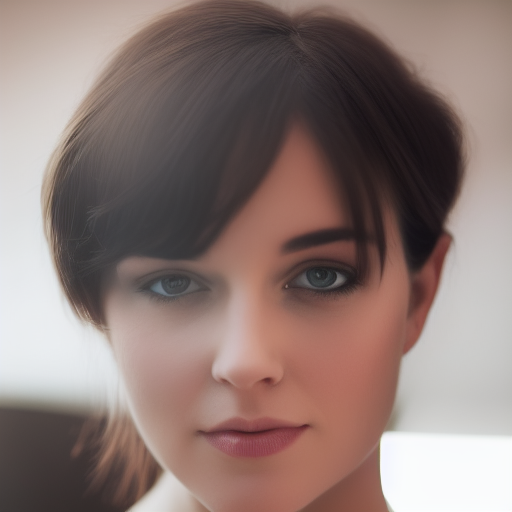
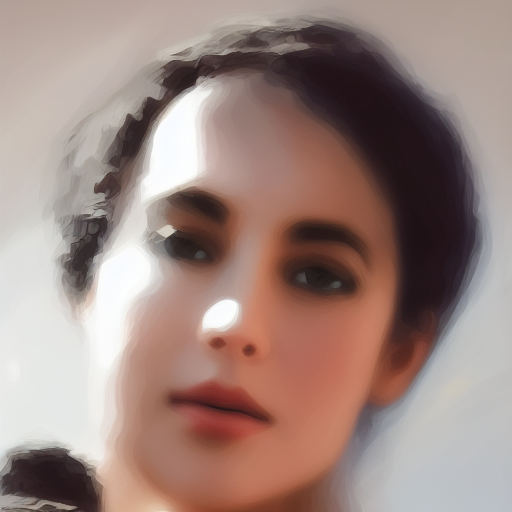
高さ方向にオフセットかました。割とよさげ

diff --git a/HumanGalgeeSystem/Development/HumanGalgeeSystem/ToDesktop/main_optimize.py b/HumanGalgeeSystem/Development/HumanGalgeeSystem/ToDesktop/main_optimize.py
@@ -20,7 +20,7 @@ from utils import CvFpsCalc
 def conv_face2girl(api,prompt,faceimage):
     # 画像を生成する
     # faceimage = Image.open("facetrim.png")
-    girlimage = api.img2img(images = [faceimage], prompt=prompt, seed=5555, cfg_scale=6.5, denoising_strength=0.6)
+    girlimage = api.img2img(images = [faceimage], prompt=prompt, seed=5555, cfg_scale=6.5, denoising_strength=0.5)
     girlimage.image.save("girlimage.png")
         
 
@@ -143,9 +143,11 @@ def culculate_face_pos_and_size(image,detection):
 def overlay_illust(bg,posX,posY,sizeH):
     try :
         olimage = cv.imread("girlimage.png",cv.IMREAD_UNCHANGED) 
-        resize_ol_image = cv.resize(olimage, dsize=None, fx=sizeH * 0.004, fy=sizeH * 0.004)
+        resize_ol_image = cv.resize(olimage, dsize=None, fx=sizeH * 0.0035, fy=sizeH * 0.0035)
         resize_ol_image_height = resize_ol_image.shape[0]
         resize_ol_image_width = resize_ol_image.shape[1]
+        
+        posY = posY -50 #高さ方向のオフセット
 
         #重ね合わせ画像のアルファチャンネルだけ抜き出す(0~255の値が入っている)
         #alpha = resize_ol_image[:,:,3]
@@ -164,7 +166,7 @@ def overlay_illust(bg,posX,posY,sizeH):
         print(ex)
         return bg
 
-# 顔の部分を切り抜き
+# 顔の部分を切り抜き()
 def trim_face(posX,posY,sizeW,sizeH,image):
     try :
         faceimage = image[posY-100:posY+sizeH,posX-50:posX+sizeW+50] 
